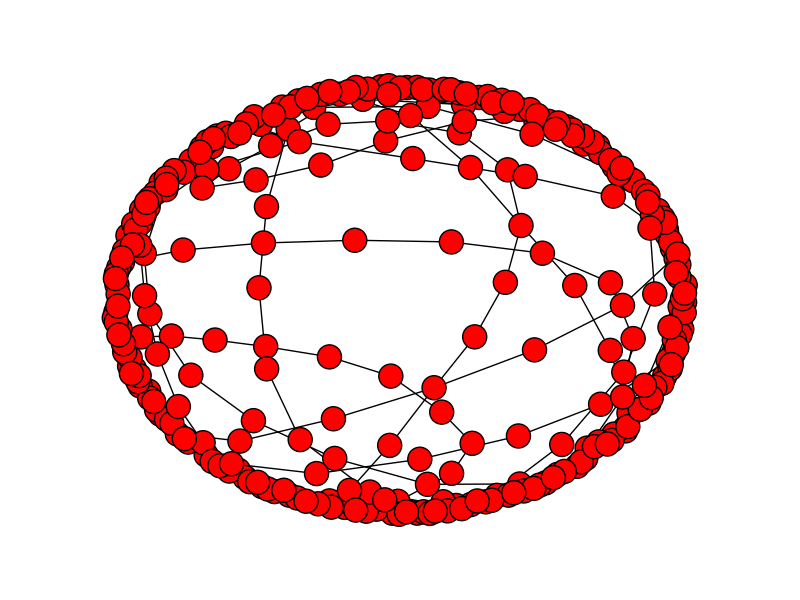
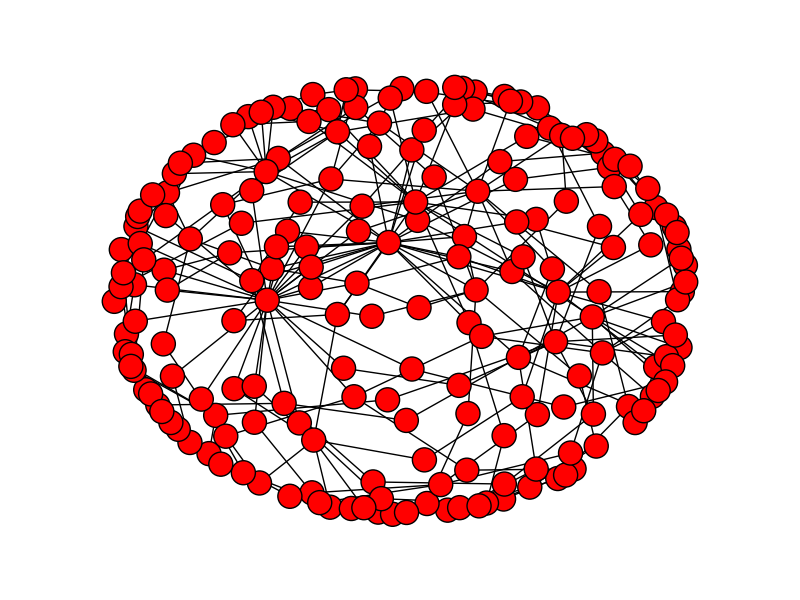
added single word connections

Changed region(s): [[0.125, 0.12, 0.875, 0.9]]

diff --git a/main.py b/main.py
@@ -16,39 +16,39 @@ STOP_WORDS = nltk.corpus.stopwords.words('english') + list( string.punctuation )
 
 G = nx.Graph()
 
-# remove stop words and punctation
-for index in xrange(len(article)):
+#article = article[0:300]
+
+previous_word = ""
+
+for index in xrange(len(article)-1):
+    
+    # remove stop words and punctation
     article[ index ] = article[ index ].translate(string.maketrans("",""), string.punctuation).lower()
 
-article = article[0:300]
+    if index == 0:
+        current_word = article[ index ]
+        next_word = article[ index + 1 ]
 
-# add nodes
-
-previous_ngram = ""
-
-for ngram_index in xrange(len(article)-3):
-    if ngram_index == 0:
-        ngram = "_".join( article[ngram_index: ngram_index + 3] )
-        next_ngram = "_".join( article[ngram_index + 1 : ngram_index + 1 + 3] )
-
-        G.add_node( ngram )
-        G.add_node( next_ngram )
+        G.add_edge( current_word, next_word )
     else:
-        previous_ngram = ngram
-        ngram = next_ngram
-        next_ngram = "_".join( article[ngram_index + 1 : ngram_index + 1 + 3] )
+        previous_word = current_word
+        current_word = next_word
+        next_word = article[ index + 1 ]
 
-        G.add_node( next_ngram )
+        print previous_word, current_word, next_word
 
-        G.add_edge( previous_ngram, ngram )
-        G.add_edge( ngram, next_ngram )
+        G.add_edge( previous_word, current_word )
+        G.add_edge( current_word, next_word )
+        
+        G.add_edge( previous_word, next_word )
 
-    #G.add_weighted_edges_from([(1,2,0.125),(1,3,0.75),(2,4,1.2),(3,4,0.375)])
+#G.add_weighted_edges_from([(1,2,0.125),(1,3,0.75),(2,4,1.2),(3,4,0.375)])
 
-
+"""
 print "drawing..."
 nx.draw(G)
 print "save plot..."
 plt.savefig("path.png")
+"""
 
 #print G.nodes()
